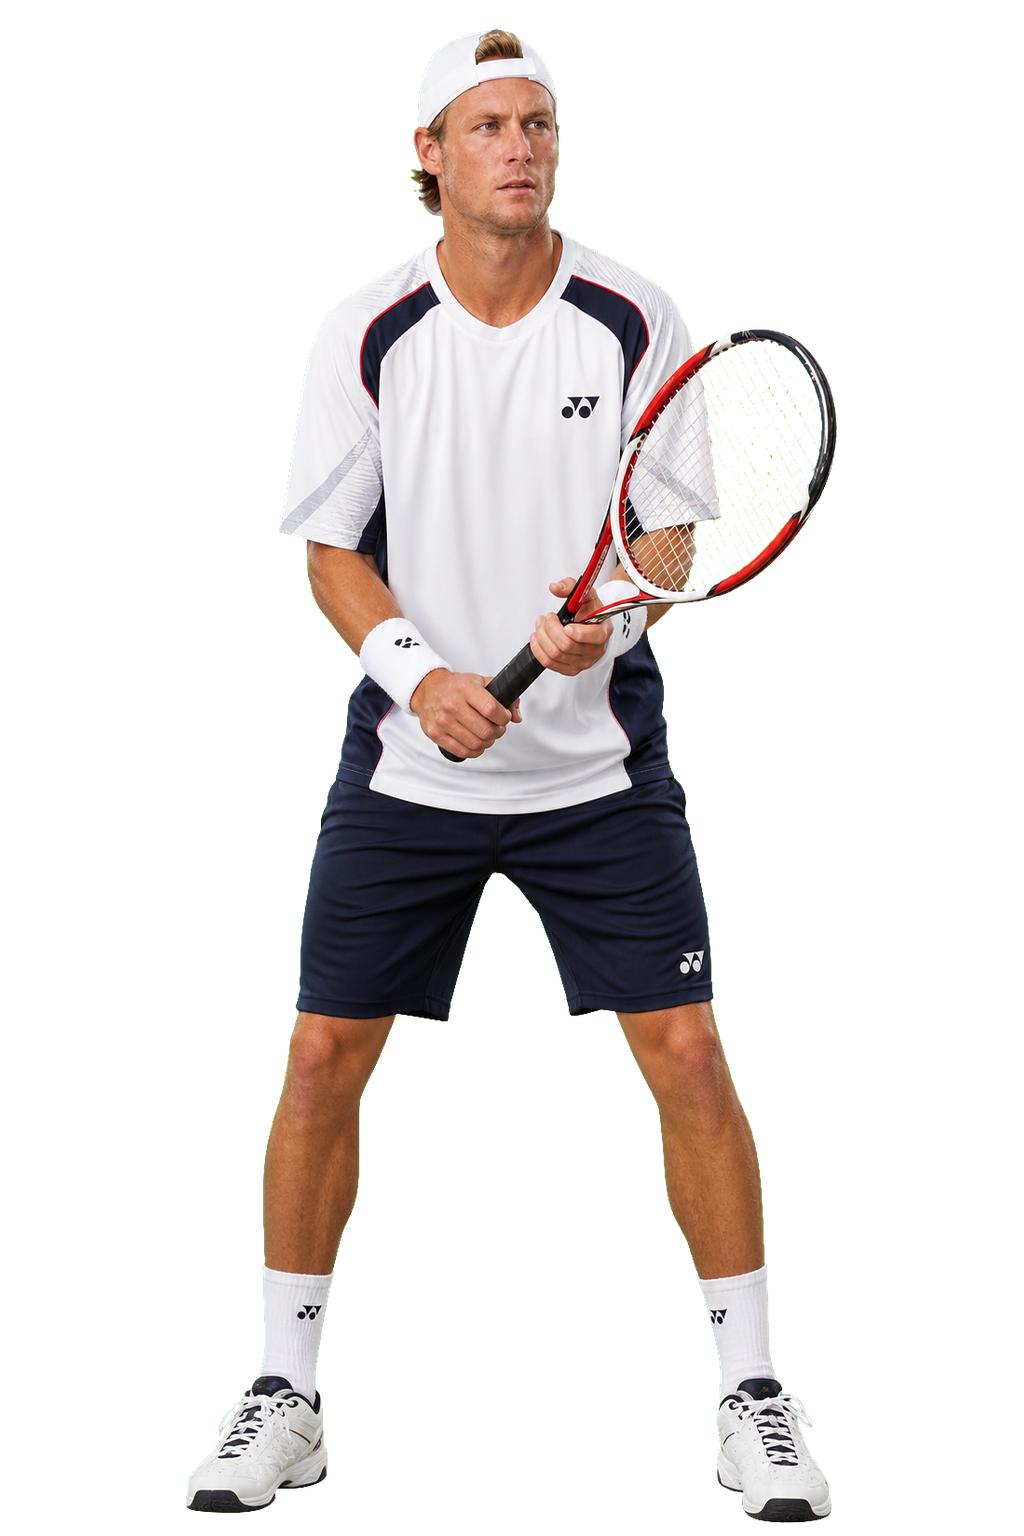
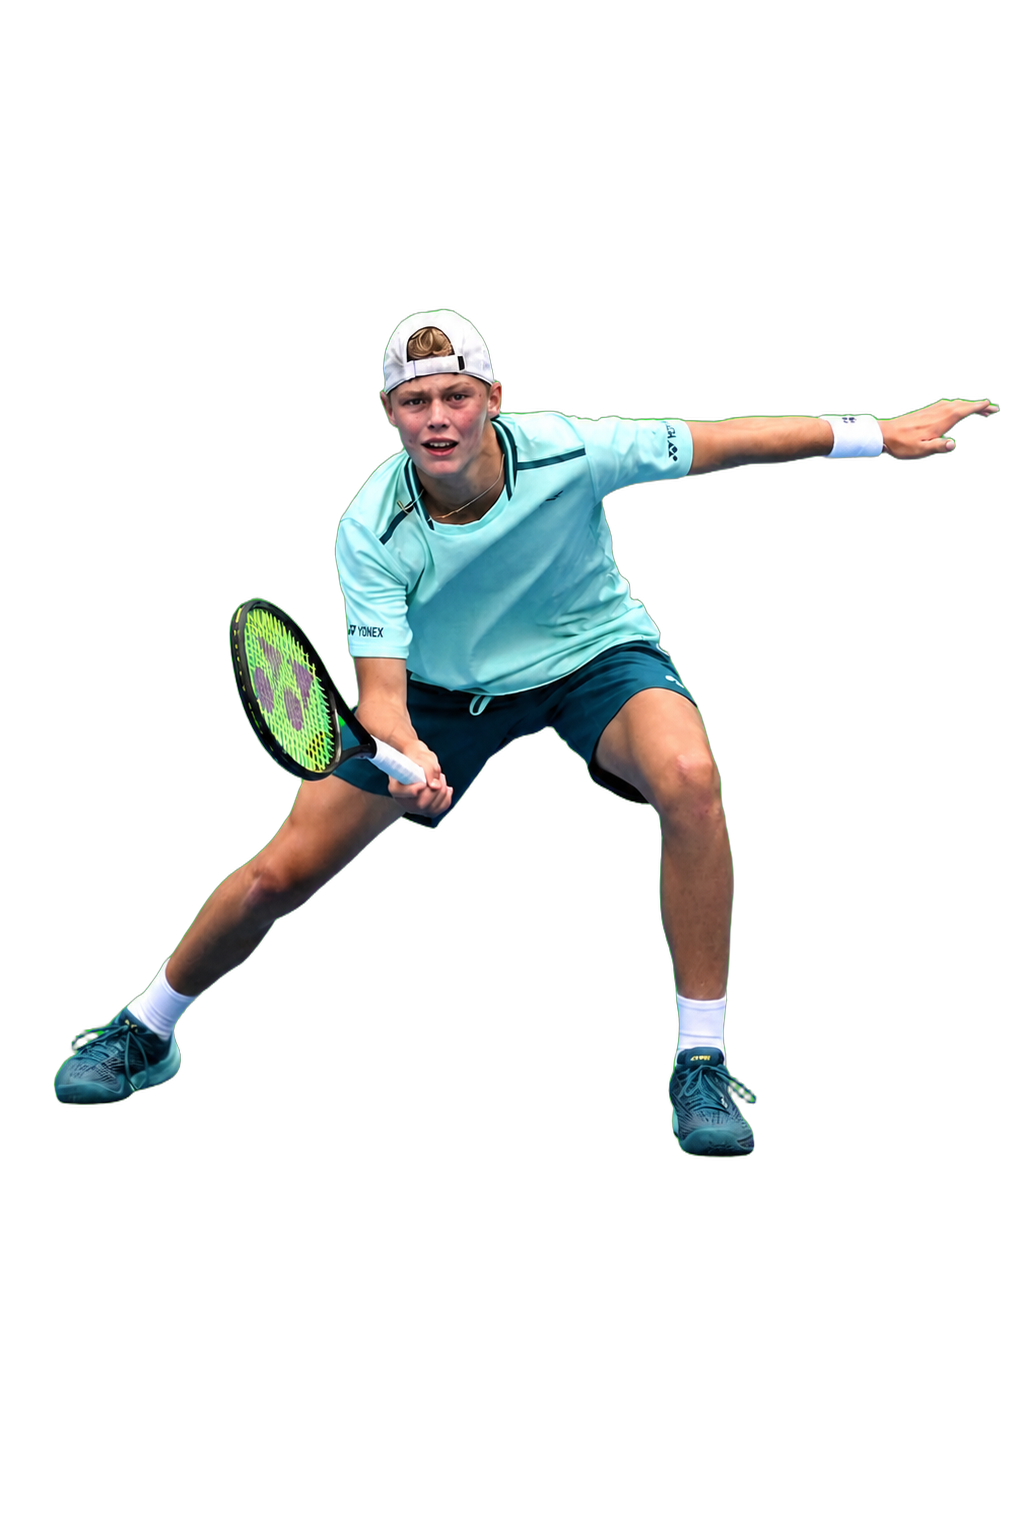
Fix Cruz Hewitt player portrait

Changed region(s): [[0.0303, 0.0, 0.9697, 1.0]]

diff --git a/app/MatchDashboard.tsx b/app/MatchDashboard.tsx
@@ -415,7 +415,7 @@ function PlayerPortrait({id,name,side}:{id:number|null;name:string;side:"left"|"
     ...(top60Slug?[`/players/cutouts/top60/${top60Slug}.png`]:[]),
     ...(top80Slug?[`/players/cutouts/top80/${top80Slug}.png?v=griekspoor2`]:[]),
     ...(top100Slug?[`/players/cutouts/top100/${top100Slug}.png?v=top100-5`]:[]),
-    ...(nameCutout?[`/players/cutouts/${nameCutout}.png?v=name-stable1`]:[]),
+    ...(nameCutout?[`/players/cutouts/${nameCutout}.png?v=name-stable2`]:[]),
     ...(id&&PLAYER_CUTOUT_IDS.has(id)?[`/players/cutouts/${id}.png?v=racket3`]:[]),
     ...(id&&id!==19?[`/players/${id}.jpg`]:[]),
     ...(fallback?[fallback]:[]),
